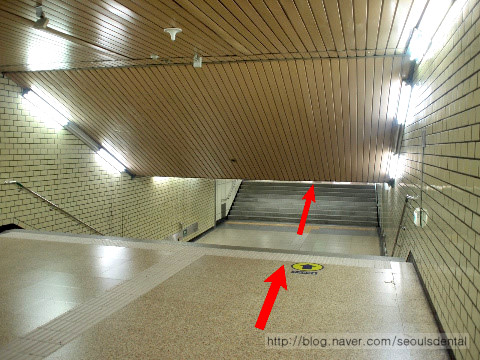
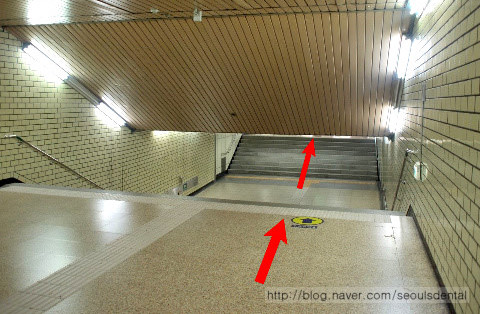
img shadow

diff --git a/_sass/_colors.scss b/_sass/_colors.scss
@@ -1,3 +1,8 @@
+.shadow {  
+  box-shadow: 0 2px 10px rgba(25, 25, 25, $alpha);
+  -webkit-box-shadow: 0 2px 10px rgba(25, 25, 25, $alpha);
+  -moz-box-shadow: 0 2px 10px rgba(25, 25, 25, $alpha);
+}
 /**
  * Links
  */

diff --git a/_pages/23-direction-parking.md b/_pages/23-direction-parking.md
@@ -21,14 +21,14 @@ frontpage: true
 
   <div class="col-lg-6">
   <h5>삼전동/트리지움에서 접근시</h5>
-    <div class="embed-responsive embed-responsive-16by9">
+    <div class="embed-responsive embed-responsive-16by9 shadow">
       <iframe class="embed-responsive-item" src="https://www.youtube.com/embed/Kd9KYYJEOxM?vq=hd720&modestbranding=1?rel=0" frameborder="0" allow="accelerometer; autoplay; encrypted-media; gyroscope; picture-in-picture" allowfullscreen></iframe>
     </div>
   </div>
 
   <div class="col-lg-6">
   <h5>종합운동장에서 접근시</h5>
-    <div class="embed-responsive embed-responsive-16by9">
+    <div class="embed-responsive embed-responsive-16by9 shadow">
       <iframe class="embed-responsive-item" src="https://www.youtube.com/embed/ot5acNl7bGw?vq=hd720&modestbranding=1?rel=0" frameborder="0" allow="accelerometer; autoplay; encrypted-media; gyroscope; picture-in-picture" allowfullscreen></iframe>
     </div>
   </div>

diff --git a/_pages/22-direction-metro.md b/_pages/22-direction-metro.md
@@ -11,9 +11,13 @@ frontpage: true
 <div id="info">
 
 {% for item in site.data.direction %}
-<div class="row">
-<div class="col-lg-4">{{ forloop.index }}. {{item.caption}}</div>
-<div class="col-lg-8 p-2 mb-5 d-flex justify-content-center"><img src="{{site.url}}/img/{{item.photo}}"></div>
+<div class="card mb-3">
+  <div class="card-body">
+    <div class="row">
+      <div class="col-lg-8 p-2 d-flex justify-content-center"><img class="shadow" src="{{site.url}}/img/{{item.photo}}"></div>
+      <div class="col-lg-4 mb-4 ">{{ forloop.index }}. {{item.caption}}</div>
+    </div>
+  </div>
 </div>
 {% endfor %}
 

diff --git a/_pages/21-direction-map.md b/_pages/21-direction-map.md
@@ -22,7 +22,7 @@ published: true
 
 <!-- * 카카오맵 - 지도퍼가기 -->
 <!-- 1. 지도 노드 -->
-<div id="daumRoughmapContainer1558183712105" class="root_daum_roughmap root_daum_roughmap_landing"></div>
+<div id="daumRoughmapContainer1558183712105" class="root_daum_roughmap root_daum_roughmap_landing shadow"></div>
 
 <!--
 	2. 설치 스크립트
